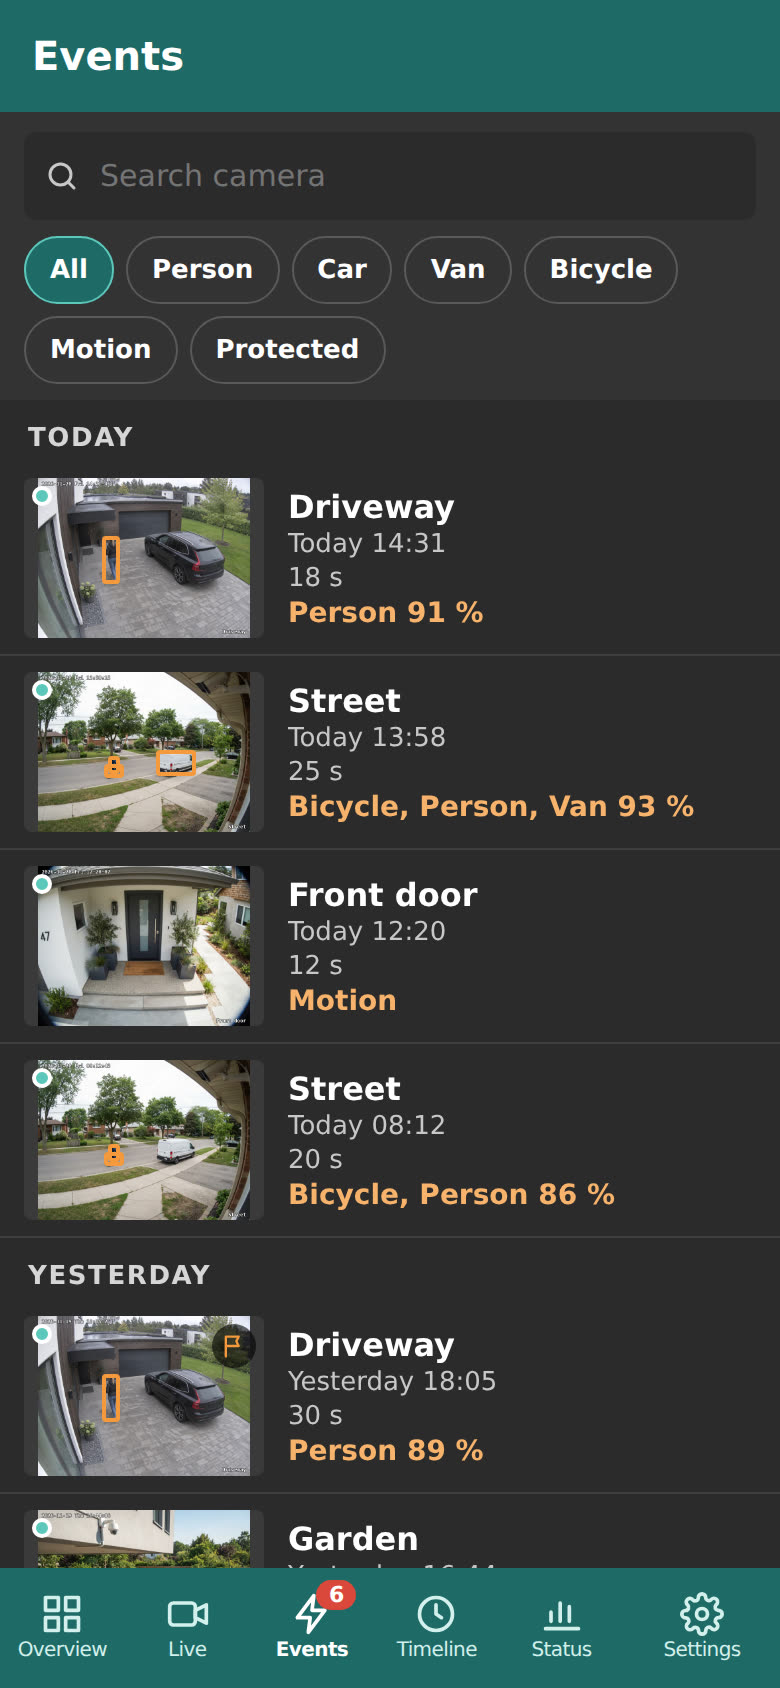
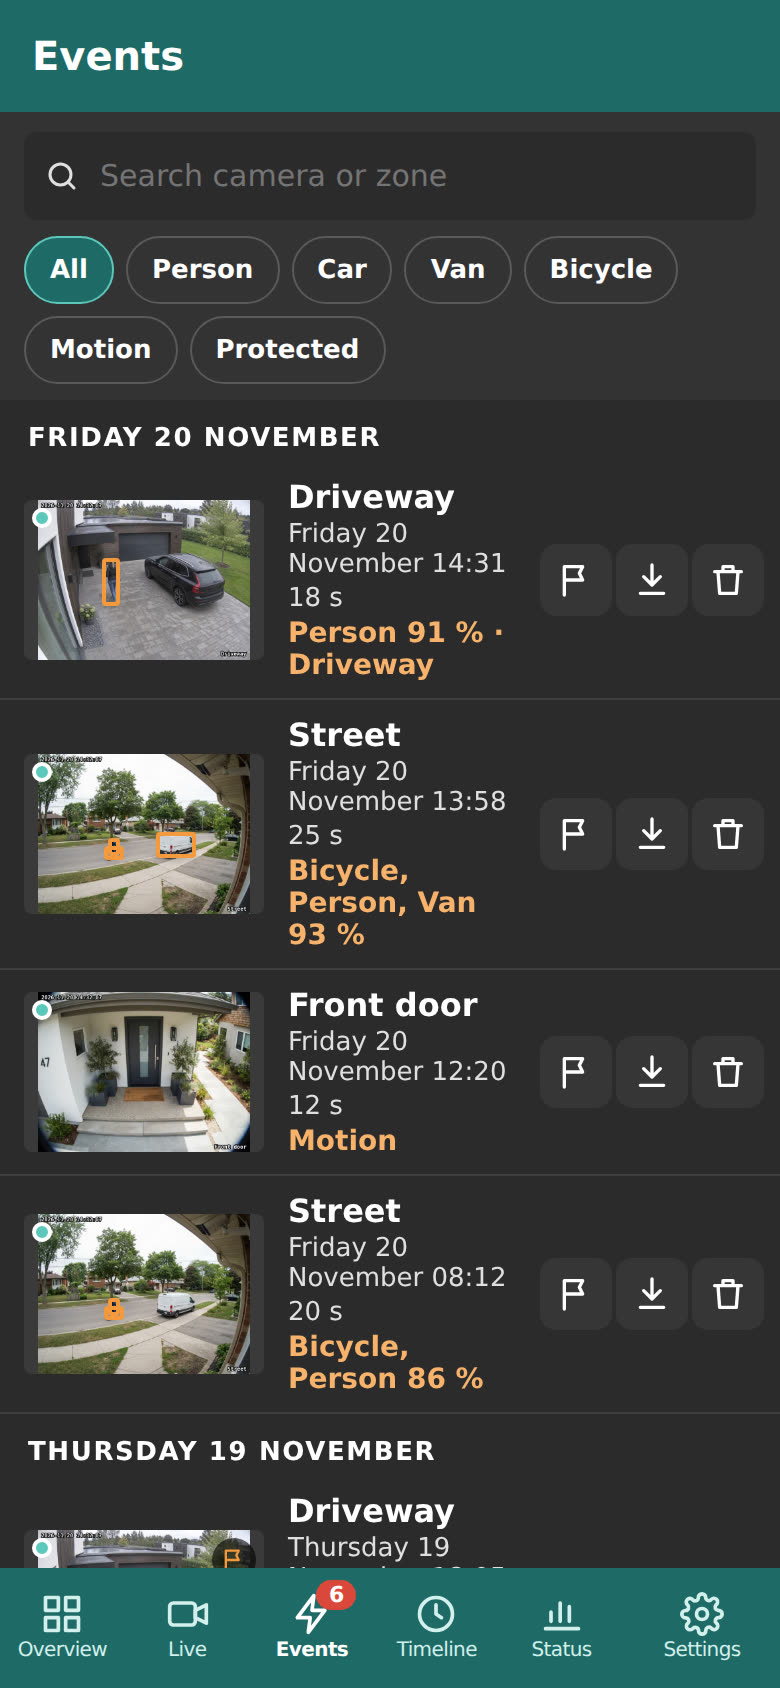
README: screenshot of the zones and the new events list

diff --git a/README.md b/README.md
@@ -15,10 +15,11 @@ hardware – no cloud and no subscription.
 
 <table>
   <tr>
-    <td align="center"><img src="docs/screenshots/phone-live.jpg" alt="Live view with the 24/7 timeline" width="180"><br><sub>Live and 24/7 timeline</sub></td>
-    <td align="center"><img src="docs/screenshots/phone-events.jpg" alt="Events with filters" width="180"><br><sub>Events with AI</sub></td>
-    <td align="center"><img src="docs/screenshots/phone-playback.jpg" alt="Playing an event" width="180"><br><sub>Playing an event</sub></td>
-    <td align="center"><img src="docs/screenshots/phone-add-camera.jpg" alt="Finding cameras on the network" width="180"><br><sub>Find cameras on the network</sub></td>
+    <td align="center"><img src="docs/screenshots/phone-live.jpg" alt="Live view with the 24/7 timeline" width="160"><br><sub>Live and 24/7 timeline</sub></td>
+    <td align="center"><img src="docs/screenshots/phone-events.jpg" alt="Events with filters, zones and quick actions" width="160"><br><sub>Events with AI and zones</sub></td>
+    <td align="center"><img src="docs/screenshots/phone-playback.jpg" alt="Playing an event" width="160"><br><sub>Playing an event</sub></td>
+    <td align="center"><img src="docs/screenshots/phone-zones.jpg" alt="Drawing zones and an area to ignore on the camera picture" width="160"><br><sub>Zones (new in 1.1)</sub></td>
+    <td align="center"><img src="docs/screenshots/phone-add-camera.jpg" alt="Finding cameras on the network" width="160"><br><sub>Find cameras on the network</sub></td>
   </tr>
 </table>
 
